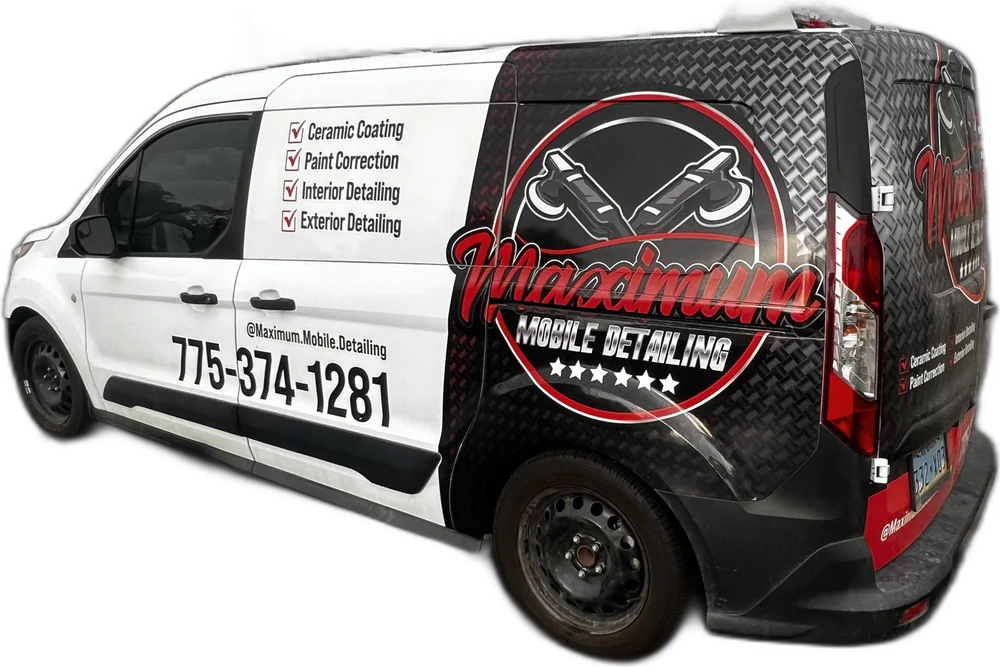
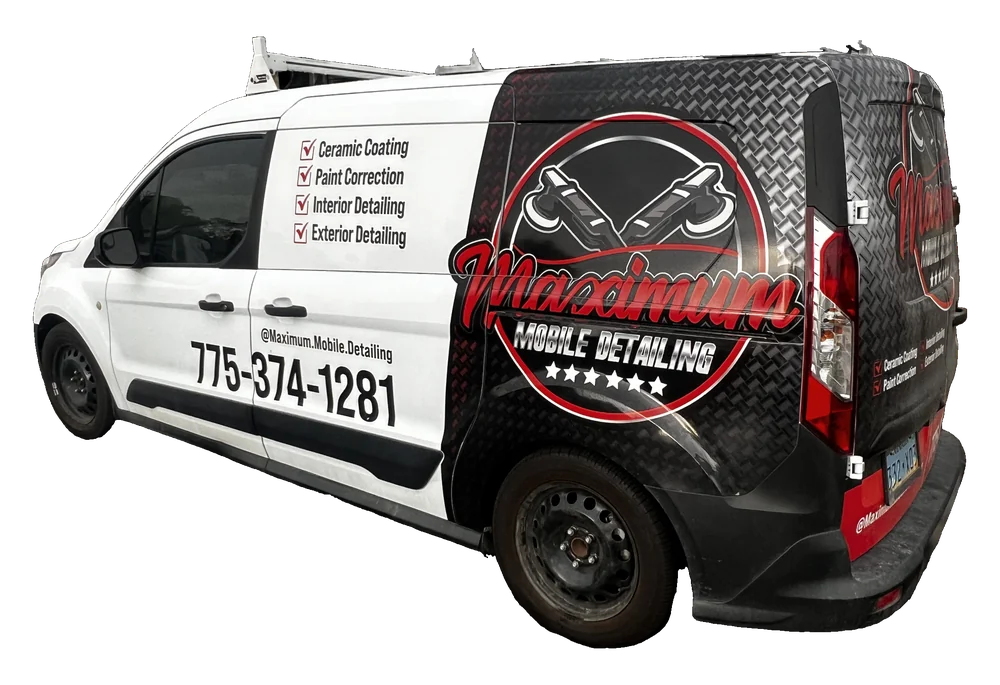
Fix the van cut-out: nothing clipped, no ghosting, no stray background
The first pass cropped flush to the alpha bounding box, so the roof rack, rear
bumper, front bumper and wheels all sat hard against the edges and read as
cropped off.

Redone at 2400px instead of 1600 so thin structures survive, alpha hardened to
kill the semi-transparent ghosting that alpha matting left on the roof rack,
and only the largest connected component kept, which drops the speed limit
sign and 24 other fragments the model had held onto.

Crop now carries 3.5% horizontal and 6% vertical padding, so nothing touches
an edge. Zero semi-transparent pixels remain.

Also bounded the image on both axes so a wide viewport cannot stretch the hero
past a screenful, and corrected a sizes attribute that claimed 118vw on mobile
while the CSS rendered 92vw.

Verified at 375 and 1280: CTAs above the fold, van unclipped, no overflow.

diff --git a/index.html b/index.html
@@ -46,7 +46,7 @@
 <link rel="preconnect" href="https://fonts.gstatic.com" crossorigin>
 <link rel="preload" as="style" href="https://fonts.googleapis.com/css2?family=Archivo:wdth,wght@75..125,400..900&family=Barlow:wght@400;500;600;700&display=swap">
 <link rel="stylesheet" href="https://fonts.googleapis.com/css2?family=Archivo:wdth,wght@75..125,400..900&family=Barlow:wght@400;500;600;700&display=swap">
-<link rel="preload" as="image" href="assets/img/van-cut-1000.webp" type="image/webp" imagesrcset="assets/img/van-cut-700.webp 700w, assets/img/van-cut-1000.webp 1000w, assets/img/van-cut-1400.webp 1400w" imagesizes="(max-width: 760px) 118vw, min(1080px, 92vw)" fetchpriority="high">
+<link rel="preload" as="image" href="assets/img/van-cut-1000.webp" type="image/webp" imagesrcset="assets/img/van-cut-700.webp 700w, assets/img/van-cut-1000.webp 1000w, assets/img/van-cut-1400.webp 1400w" imagesizes="min(1080px, 92vw)" fetchpriority="high">
 <link rel="stylesheet" href="styles.css">
 </head>
 <body>
@@ -86,8 +86,8 @@
 
   <div class="hero-van">
     <picture>
-      <source type="image/webp" srcset="assets/img/van-cut-700.webp 700w, assets/img/van-cut-1000.webp 1000w, assets/img/van-cut-1400.webp 1400w" sizes="(max-width: 760px) 118vw, min(1080px, 92vw)">
-      <img src="assets/img/van-cut.png" alt="The Maximum Mobile Detailing van, wrapped with the logo and 775-374-1281" width="1350" height="900" fetchpriority="high" decoding="async">
+      <source type="image/webp" srcset="assets/img/van-cut-700.webp 700w, assets/img/van-cut-1000.webp 1000w, assets/img/van-cut-1400.webp 1400w" sizes="min(1080px, 92vw)">
+      <img src="assets/img/van-cut.png" alt="The Maximum Mobile Detailing van, wrapped with the logo and 775-374-1281" width="2158" height="1478" fetchpriority="high" decoding="async">
     </picture>
   </div>
 </section>

diff --git a/styles.css b/styles.css
@@ -111,7 +111,12 @@ p{margin:0 0 1.1em}
 /* the van is cut out of its background and parked under the copy. it swoops
    in from the right on load, nose first, the direction it actually faces. */
 .hero-van{position:relative;z-index:1;width:100%;margin-top:clamp(.5rem,2vw,1.5rem);overflow:hidden}
-.hero-van img{display:block;width:min(1080px,92vw);height:auto;margin-inline:auto}
+.hero-van img{
+  display:block;margin-inline:auto;width:auto;height:auto;
+  /* bounded on both axes so a wide screen cannot stretch the hero past a
+     screenful, and a narrow one still gets a decent sized van */
+  max-width:min(1080px,94vw);max-height:min(46vh,440px);
+}
 .hero::before{
   content:"";position:absolute;inset:0;z-index:-1;pointer-events:none;
   background:
